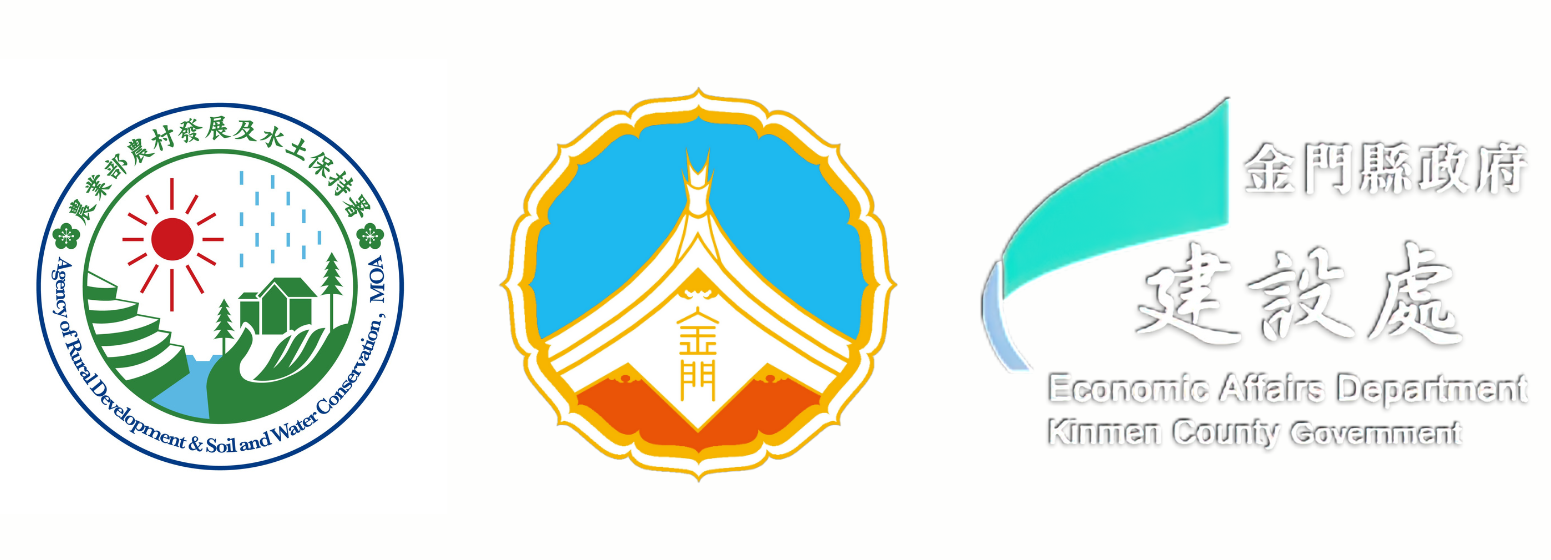
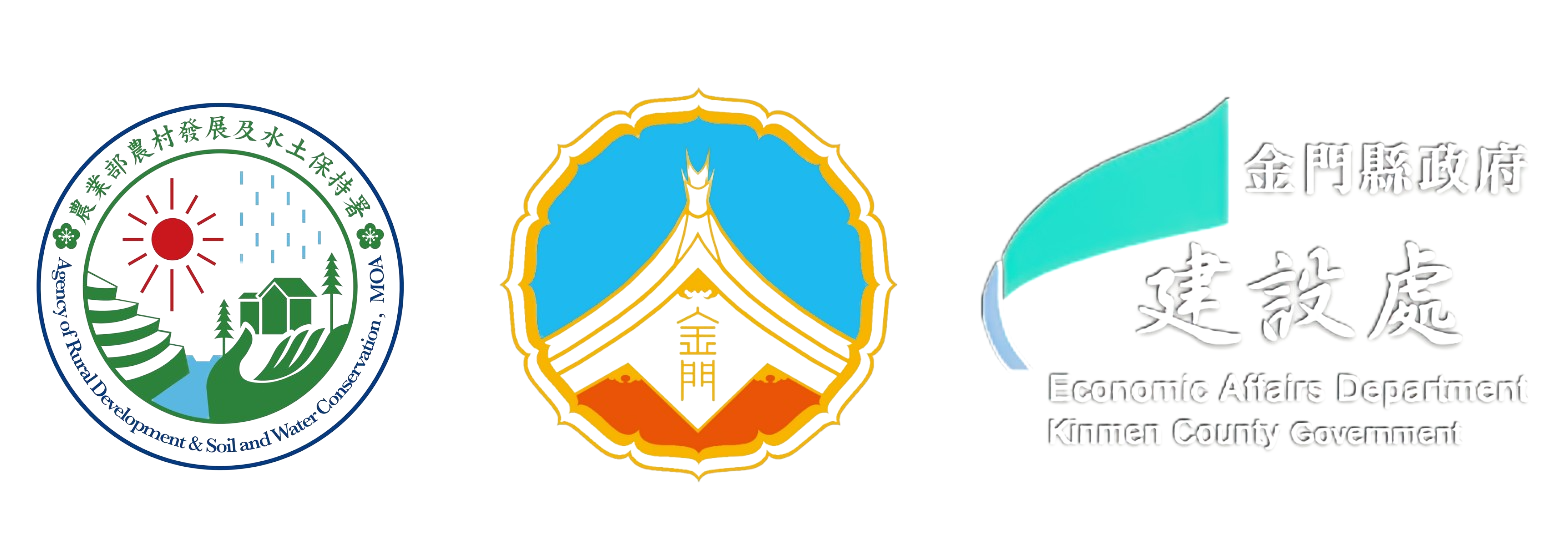
v2.1
major update

diff --git a/themes/hugo-initio/assets/css/styles.css b/themes/hugo-initio/assets/css/styles.css
@@ -6,6 +6,7 @@ body {
   font-size: 0.9375rem;
   font-family: "Open sans", Helvetica, Arial, sans-serif;
   color: #666666;
+  background-color: #fffff5;
   padding: 0;
 }
 .topspace {
@@ -194,7 +195,7 @@ a:hover {
   color: #e93675;
 }
 .lead {
-  font-weight: 300;
+  font-weight: 800;
   font-size: 30px;
   text-align: left;
 }
@@ -220,10 +221,16 @@ a:hover {
 
 
 **********************************************************************/
+#header {
+  margin:10px;
+}
+
+/*
+
 #head {
   background-color: #f4f4f4;
   background-position: top center;
-  background-size: cover;
+  object-fit: scale-down;
   color: #7C7C7C;
   padding: 30px 0 35px 0;
 }
@@ -284,6 +291,9 @@ a:hover {
   font-size: 1rem;
   margin: 15px 0 0;
 }
+
+*/
+
 /*********************************************************************
 
 
@@ -787,7 +797,9 @@ footer.entry-meta .meta-in {
 #footer a:hover {
   color: #fff;
 }
-#footer h3.widget-title {
+#footer h3.widget-title,
+#footer .viewstats {
+
   font-size: 15px;
   font-size: 0.9375rem;
   text-transform: uppercase;
@@ -839,6 +851,7 @@ footer.entry-meta .meta-in {
 
 
 **********************************************************************/
+/*
 .st-custom-button[data-network] {
    background-color: #fff;
    display: inline-block;
@@ -850,6 +863,7 @@ footer.entry-meta .meta-in {
       color: #004488;
    }
 }
+*/
 
 /*********************************************************************
 
@@ -858,16 +872,21 @@ footer.entry-meta .meta-in {
 
 
 **********************************************************************/
+#fs-frm fieldset#fs-frm-inputs {
+  padding-left: 30px;
+}
+
 #fs-frm input,
 #fs-frm select,
 #fs-frm textarea,
 #fs-frm fieldset,
 #fs-frm optgroup,
 #fs-frm label,
+#fs-frm legend,
 #fs-frm #card-element:disabled {
-  font-family: inherit;
-  font-size: 100%;
-  color: inherit;
+  font-family: 'Noto Sans TC', sans-serif;
+  font-size: 20px;
+  color: #333333;
   border: none;
   border-radius: 0;
   display: inline;
@@ -878,12 +897,12 @@ footer.entry-meta .meta-in {
   -moz-appearance: none;
 }
 #fs-frm label,
-#fs-frm legend,
-#fs-frm ::placeholder {
+#fs-frm legend {
   font-size: 22px;
   margin-bottom: .5rem;
   padding-top: .2rem;
   display: flex;
+  font-weight:bold;
   align-items: baseline;
 }
 
@@ -920,6 +939,8 @@ footer.entry-meta .meta-in {
   -webkit-appearance: button;
   -moz-appearance: button;
   appearance: button;
+  color: white;
+  font-size: 24px;
 }
 #fs-frm [type="button"]:focus,
 #fs-frm [type="submit"]:focus,
@@ -931,17 +952,32 @@ footer.entry-meta .meta-in {
   margin: 5px;
 }
 
+#fs-frm [type="submit"] {
+  background-color: #b18169;
+}
+
 #fs-frm [type="submit"]:hover {
-  background-color: #5E5E5E;
+  background-color: #dbaf99;
+}
+
+#fs-frm [type="reset"] {
+  background-color: #999;
+}
+
+#fs-frm [type="reset"]:hover {
+  background-color: #a5a3a3;
 }
 
 #fs-frm div.form_button {
+  padding-left: 30px;
   display: flex;
   justify-content : center;
 }
 
 #fs-frm select {
   text-transform: none;
+  font-size: 20px;
+  padding: 2.2px 8px;
 }
 
 #fs-frm [type="checkbox"] {
@@ -964,12 +1000,11 @@ footer.entry-meta .meta-in {
 
 /* address, locale */
 
-#fs-frm fieldset.locale select[name="district"],
 #fs-frm fieldset.locale input[name="section"],
 #fs-frm fieldset.locale input[name="section_small"],
 #fs-frm fieldset.locale input[name="field_number"] {
   display: inline;
-  font-size: 22px;
+  font-size: 20px;
 }
 #fs-frm fieldset.locale input[name="section"],
 #fs-frm fieldset.locale input[name="section_small"] {
@@ -980,11 +1015,10 @@ footer.entry-meta .meta-in {
   width: 35%;
 }
 
-#fs-frm .checkbox-custom label,
-#fs-frm .checkbox-custom.row label {
-  font-size: auto;
-  font-family: 'Noto Sans TC', sans-serif;
-  line-height: 1.8rem;
+#fs-frm .checkbox-custom label {
+  font-size: 22px;
+  font-weight: 400;
+  line-height: 1.5rem;
   margin-bottom: .5rem;
   padding-top: .2rem;
   display: flex;
@@ -992,16 +1026,71 @@ footer.entry-meta .meta-in {
   align-items: baseline;
 }
 
-#fs-frm .checkbox-custom {
-  line-height: 1.2rem;
+#fs-frm ::placeholder {
+  font-size: 18px;
+  font-weight: 400;
+  line-height: 1.5rem;
+  margin-bottom: .5rem;
+  padding-top: .2rem;
+  display: flex;
+  width: 100%;
+  align-items: baseline;
 }
 
+#fs-frm .checkbox-custom-row, #fs-frm .checkbox-custom-row label, #project6, #othersproj {
+  display: inline !important;
+}
+
+#fs-frm .checkbox-custom-row label, input#othersproj {
+  font-size: 22px;
+  font-weight: 400;
+}
+
+
+
 #fs-frm input[disabled] {
-  background-color: #CCCCCC;
+  background-color: #e4e4e4;
 }
 
 /* Style the container */
 .form {
   border-radius: 5px;
   padding-right: 20px;
+}
+
+
+/*********************************************************************
+
+
+                                RWD 
+
+
+**********************************************************************/
+
+@media only screen and (max-width: 500px) {
+  #header {
+    margin:2px 0px 0px;
+  }
+
+  .topspace {
+    margin-top: 15px;
+  }
+
+  .lead {
+    font-size: 24px;
+    font-weight: 600;
+  }
+  
+  .panel-cta p {
+    font-family: 'Noto Sans TC', sans-serif;
+    font-weight: 600;
+    font-size: 24px;
+    margin: 0;
+  }
+  .row {
+    margin-right: -7px;
+  }
+  input#othersproj {
+    max-width: 70%;
+  }
 }

diff --git a/layouts/shortcodes/contact.html b/layouts/shortcodes/contact.html
@@ -2,13 +2,13 @@
     <form id="fs-frm" name="registration-form" accept-charset="utf-8" action="https://formspree.io/f/xyyvpyqv" method="post">
       <fieldset id="fs-frm-inputs">
         <label for="full-name">申請人</label>
-        <input type="text" name="name" id="full-name" placeholder="您的姓名" required="">
-        <label for="mobile">電話</label>
-        <input type="text" name="mobile" id="mobile-no" placeholder="您的電話" required="" maxlength="10">
+        <input type="text" name="name" id="full-name" placeholder="您的姓名" required="" autocomplete="name">
+        <label for="mobile-no">電話</label>
+        <input type="text" name="mobile" id="mobile-no" placeholder="您的電話" required="" maxlength="10" autocomplete="tel">
         <label for="email-address">電子郵件地址</label>
-        <input type="email" name="_replyto" id="email-address" placeholder="您的電子信箱地址" required="">
+        <input type="email" name="_replyto" id="email-address" placeholder="您的電子信箱地址" required="" autocomplete="email">
         <label for="street-address">住址</label>
-        <input type="text" name="stree_address" id="street-address" placeholder="您的住址" required="">
+        <input type="text" name="stree_address" id="street-address" placeholder="您的住址" required="" autocomplete="street-address">
         <fieldset class="locale">
           <legend>申請地號</legend>
           <select name="district">
@@ -41,11 +41,9 @@
             <div class="checkbox-custom">
               <label><input type="checkbox" name="project[]" id="project5" value="水土保持處理技術輔導">水土保持處理技術輔導</label>
             </div>
-            <div class="col-md-2">
-              <div class="checkbox-custom row">
-                <label><input type="checkbox" name="project[]" id="project6" onclick="if(this.checked){ document.getElementById('othersproj').disabled = false; document.getElementById('othersproj').focus();}else{document.getElementById('othersproj').disabled = true;}" value="6">其他</label>
-                <input type="text" name="othersproj"  placeholder="" id="othersproj" disabled="disabled">
-              </div>
+            <div class="checkbox-custom-row">
+              <label id="project6label"><input type="checkbox" name="project[]" id="project6" onclick="if(this.checked){ document.getElementById('othersproj').disabled = false; document.getElementById('othersproj').focus();}else{document.getElementById('othersproj').disabled = true;}" value="6">其他</label>
+              <input type="text" name="othersproj"  placeholder="" id="othersproj" disabled="disabled">
             </div>
         </fieldset>
         <input type="hidden" name="_subject" id="email-subject" value="Registration Form Submission">

diff --git a/themes/hugo-initio/layouts/partials/head/head.html b/themes/hugo-initio/layouts/partials/head/head.html
@@ -1,3 +1,13 @@
+	<!-- Google tag (gtag.js) -->
+	<script async src="https://www.googletagmanager.com/gtag/js?id=G-TSZDRRZVWX"></script>
+	<script>
+  		window.dataLayer = window.dataLayer || [];
+  		function gtag(){dataLayer.push(arguments);}
+  		gtag('js', new Date());
+
+		gtag('config', 'G-TSZDRRZVWX');
+	</script>
+
 	<title>{{ .Title }}</title>
 	<link rel="shortcut icon" href="{{ .Site.BaseURL }}{{ .Site.Params.favicon }}">
 
@@ -11,10 +21,13 @@
 	<link rel="stylesheet" href="https://fonts.googleapis.com/css?family=Alice|Open+Sans:400,300,700">
 	
 	{{ $styles := resources.Get "css/styles.css" }}
-  {{ $css := $styles | resources.Minify | resources.Fingerprint "sha512"  }}
-  <link rel="stylesheet" href="{{ $css.Permalink }}" integrity="{{ $css.Data.Integrity }}">
+  	{{ $css := $styles | resources.Minify | resources.Fingerprint "sha512"  }}
+  	<link rel="stylesheet" href="{{ $css.Permalink }}" integrity="{{ $css.Data.Integrity }}">
 
   <!-- Share this --> 
   {{ if .Site.Params.customsharethis }}
 	<script type="text/javascript" src="//platform-api.sharethis.com/js/sharethis.js#property={{ .Site.Params.sharethis.property }}&product=custom-share-buttons"></script>
 	{{ end }}
+
+	<script data-goatcounter="https://MYCODE.goatcounter.com/count"
+        async src="//gc.zgo.at/count.js"></script>

diff --git a/themes/hugo-initio/layouts/partials/footer/footer.html b/themes/hugo-initio/layouts/partials/footer/footer.html
@@ -30,13 +30,17 @@
 				</div>
 			</div>
 			{{ end }}
-
-			<script>
-				// Append to the <body>; can use a CSS selector to append somewhere else.
-				window.goatcounter.visit_count({append: 'body'})
-			</script>
-			<script data-goatcounter="https://kinmenswcg.goatcounter.com/count"
-					async src="//gc.zgo.at/count.js"></script>
+			<div class="col-md-3 widget">
+				<div class="viewstats">瀏覽人數: <div id="stats"></div></div>
+				<script>
+					var r = new XMLHttpRequest();
+					r.addEventListener('load', function() {
+						document.querySelector('#stats').innerText = JSON.parse(this.responseText).count_unique + "人"
+					})
+					r.open('GET', 'https://kinmenswcg.goatcounter.com/counter/' + encodeURIComponent(location.pathname) + '.json')
+					r.send()
+				</script>
+			</div>
 
 			{{ if .Site.Params.showFooterTextWidget }}
 			<div class="col-md-3 widget">

diff --git a/themes/hugo-initio/layouts/partials/head/header.html b/themes/hugo-initio/layouts/partials/head/header.html
@@ -1,5 +1,8 @@
 <header id="header">
-  <div id="head" class="parallax" data-parallax-speed="2" style="background-image:url('{{ .Site.BaseURL }}{{ .Site.Params.banner }}');">
-</div>
-
+  
+  <picture>
+    <source media="(min-width: 1200px)" srcset="{{ .Site.BaseURL }}{{ .Site.Params.banner }}">
+    <source media="(max-width: 500px)" srcset="{{ .Site.BaseURL }}/images/banner_mobile.png">
+    <img src="{{ .Site.BaseURL }}{{ .Site.Params.banner }}">
+</picture>
 </header>
